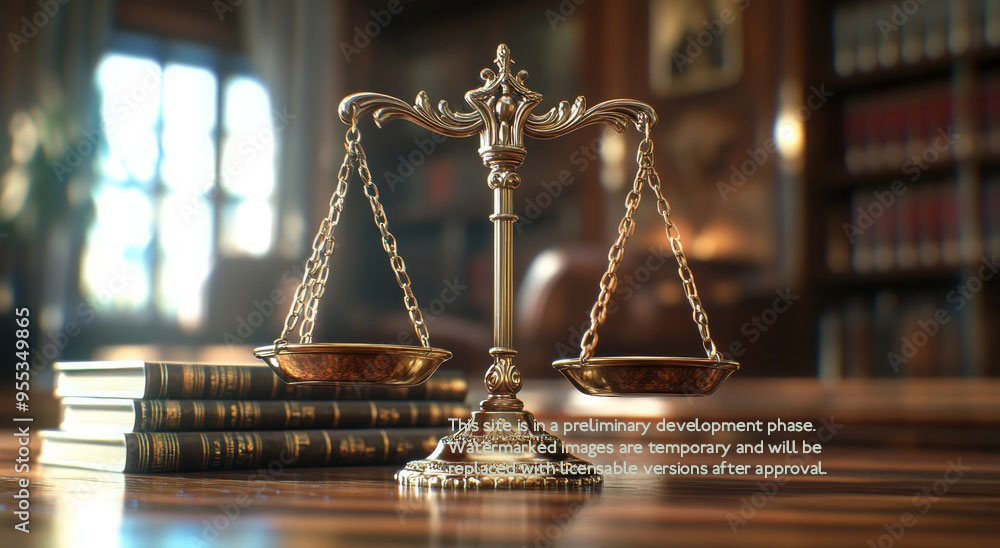
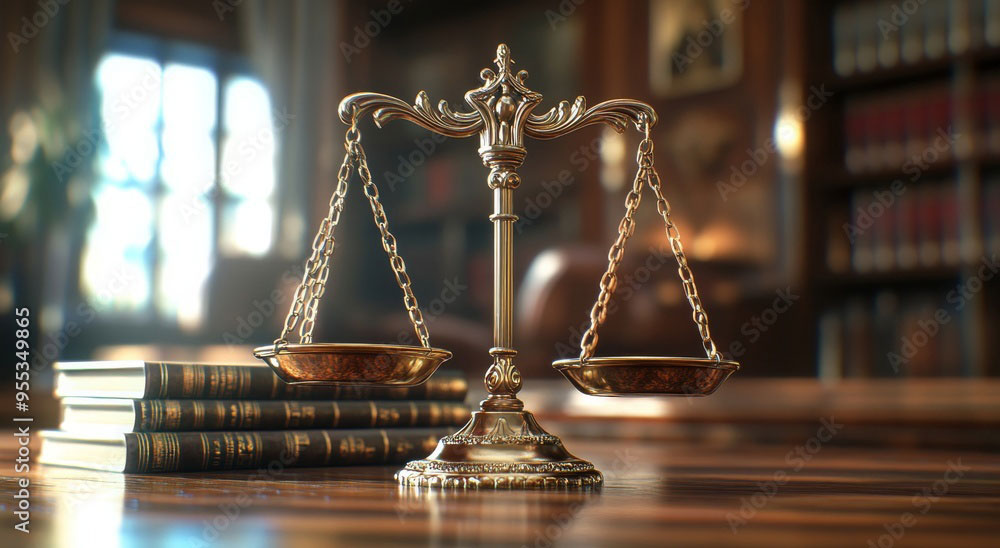
Added Site Development Notice popup on Home page

Changed region(s): [[0.434, 0.7445, 0.837, 0.8686]]

diff --git a/src/pages/Home.jsx b/src/pages/Home.jsx
@@ -1,7 +1,19 @@
-import React, { useState } from 'react';
-import { Carousel, Button } from 'react-bootstrap';
+// import React, { useState } from 'react';
+// import { Carousel, Button } from 'react-bootstrap';
+import React, { useState, useEffect } from 'react';
+import { Carousel, Button, Modal } from 'react-bootstrap';
 
 const Home = () => {
+  const [showPopup, setShowPopup] = useState(true); // Initially show the popup
+
+  useEffect(() => {
+    // Optional: add logic here to control when the popup shows, e.g., only on first visit
+    // For now, it shows on every page load.
+  }, []);
+
+  const handleClosePopup = () => {
+    setShowPopup(false);
+  };
   // const [animate, setAnimate] = useState(true);
 
   // const handleSlideChange = () => {
@@ -63,20 +75,20 @@ const Home = () => {
       </section> */}
       <section id="hero" className="hero section dark-background">
         <img src="/assets/images/home/hero-bg.jpg" alt="" data-aos="fade-in" />
-          <div className="container">
-            <div className="row">
-              <div className="col-xl-5">
-                <h1 data-aos="fade-up">Experience. Integrity. Results.</h1>
-                <blockquote data-aos="fade-up" data-aos-delay="100">
-                  <p>At the Law Offices of Brad J. Ahn, we provide trusted legal counsel and aggressive representation tailored to your needs. With years of experience advocating for our clients, we are committed to protecting your rights and achieving the best possible outcome for your case. Whether you're facing a complex legal challenge or seeking guidance, we stand by you every step of the way. Your future matters—let us fight for it.</p>
-                </blockquote>
-                <div className="d-flex" data-aos="fade-up" data-aos-delay="200">
-                  <a href="/contact" className="btn-get-started">Get Legal Help Now</a>
-                  <a href="https://www.youtube.com/shorts/RqrIaWER0m8" className="glightbox btn-watch-video d-flex align-items-center" target="_blank"><i className="bi bi-play-circle"></i><span>Watch Video</span></a>
-                </div>
+        <div className="container">
+          <div className="row">
+            <div className="col-xl-5">
+              <h1 data-aos="fade-up">Experience. Integrity. Results.</h1>
+              <blockquote data-aos="fade-up" data-aos-delay="100">
+                <p>At the Law Offices of Brad J. Ahn, we provide trusted legal counsel and aggressive representation tailored to your needs. With years of experience advocating for our clients, we are committed to protecting your rights and achieving the best possible outcome for your case. Whether you're facing a complex legal challenge or seeking guidance, we stand by you every step of the way. Your future matters—let us fight for it.</p>
+              </blockquote>
+              <div className="d-flex" data-aos="fade-up" data-aos-delay="200">
+                <a href="/contact" className="btn-get-started">Get Legal Help Now</a>
+                <a href="https://www.youtube.com/shorts/RqrIaWER0m8" className="glightbox btn-watch-video d-flex align-items-center" target="_blank"><i className="bi bi-play-circle"></i><span>Watch Video</span></a>
               </div>
             </div>
           </div>
+        </div>
       </section>
 
       {/* Mission Section */}
@@ -113,6 +125,21 @@ const Home = () => {
           </div>
         </div>
       </section>
+
+      {/* Popup Modal */}
+      <Modal show={showPopup} onHide={handleClosePopup}>
+        <Modal.Header closeButton>
+          <Modal.Title>Site Development Notice</Modal.Title>
+        </Modal.Header>
+        <Modal.Body>
+          This site is in a preliminary development phase. All images including watermarked images are temporary and will be replaced with licensable versions after approval.
+        </Modal.Body>
+        <Modal.Footer>
+          <Button variant="secondary" onClick={handleClosePopup}>
+            Close
+          </Button>
+        </Modal.Footer>
+      </Modal>
     </>
 
 
